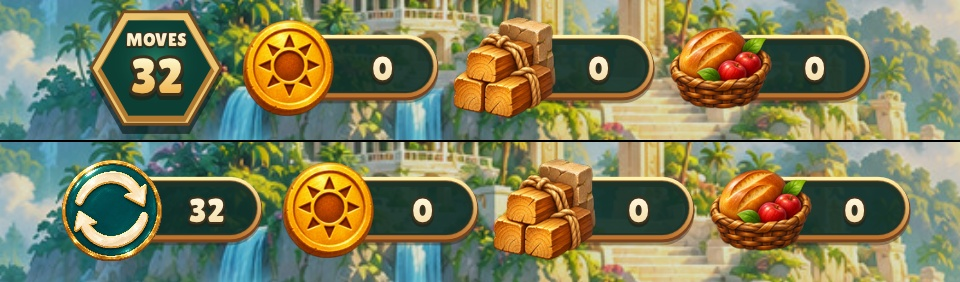
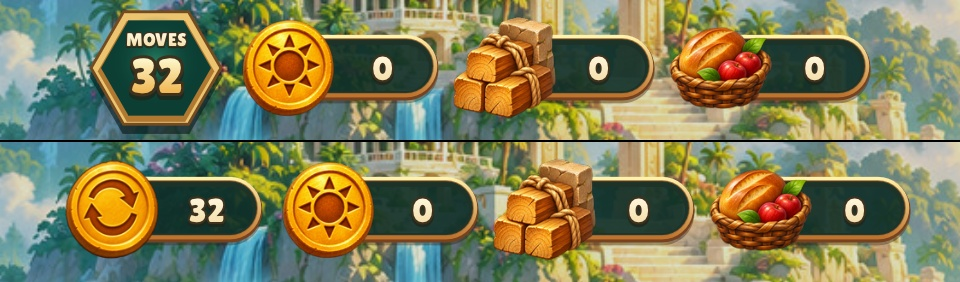
Match the Moves preview to the stamped gold wallet coin

Changed region(s): [[0.0625, 0.5674, 0.1875, 0.9362]]

diff --git a/games/relic-rush/docs/asset-catalogue.md b/games/relic-rush/docs/asset-catalogue.md
@@ -962,8 +962,9 @@ bonus (Camp), a built building with both (Museum) and five amounts in one row.
 
 The [review board](review/moves-capsule/board.jpg) places remaining moves in the
 first wallet-style capsule. ImageGen painted the [static icon](review/moves-capsule/moves.png)
-as a front-facing teal enamel token with a brass rim and two ivory clockwise
-arrows on transparent surroundings. The [header comparison](review/moves-capsule/comparison.jpg)
+using the [wallet coin](../art/registered/resource-pieces/coin.png) as its reference.
+Two recessed clockwise arrows replace the stamped sun on the warm gold face.
+The transparent sprite is registered at the same 128 × 128 px as the wallet coin. The [header comparison](review/moves-capsule/comparison.jpg)
 shows the shipped hex counter above the concept. To render this preview from
 the repository root:
 
